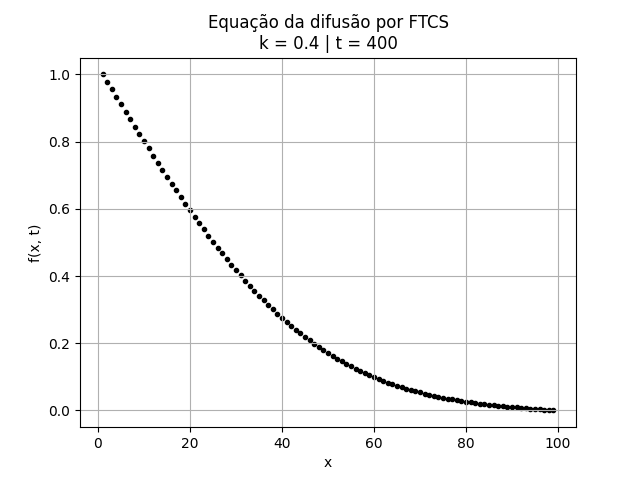
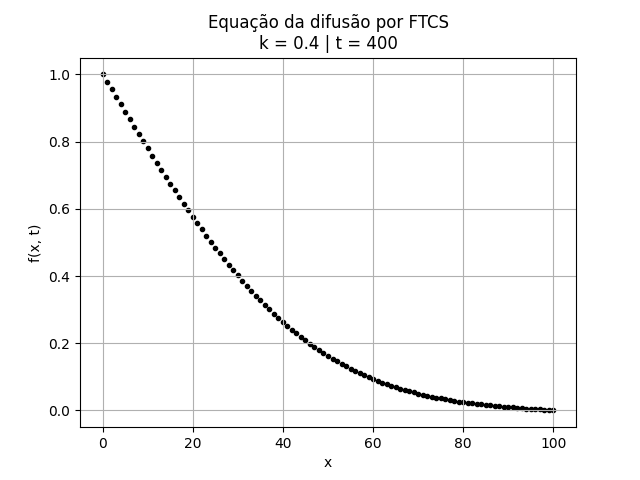
atualização

diff --git a/MetCompC/aula1/FTCS.py b/MetCompC/aula1/FTCS.py
@@ -17,7 +17,7 @@ import matplotlib.pyplot as plt
 def ftcs(x0, xf, D, dx, dt, tf):
     f = lambda xi, ti: (1/np.sqrt(4 * np.pi * D * ti)) * np.exp(-(xi**2)/(4 * D * ti))
     k = (D * dt)/(dx**2)
-    x = list(np.arange(dx, xf, dx))
+    x = list(np.arange(x0, xf+dx, dx))
     ftemp = np.zeros(len(x))
     ftemp[0] = 1.
     fxt = np.zeros(len(x))
@@ -37,8 +37,10 @@ dx = 1
 dt = 0.25
 tf = 400
 
+x, y = ftcs(x0, xf, D, dx, dt, tf)
+
 plt.figure(1)
-plt.scatter(ftcs(x0, xf, D, dx, dt, tf)[0], ftcs(x0, xf, D, dx, dt, tf)[1], marker='.', c='k')
+plt.scatter(x, y, marker='.', c='k')
 plt.grid()
 plt.title(f'Equação da difusão por FTCS\nk = {(D * dt)/(dx**2)} | t = {tf}')
 plt.xlabel('x')
